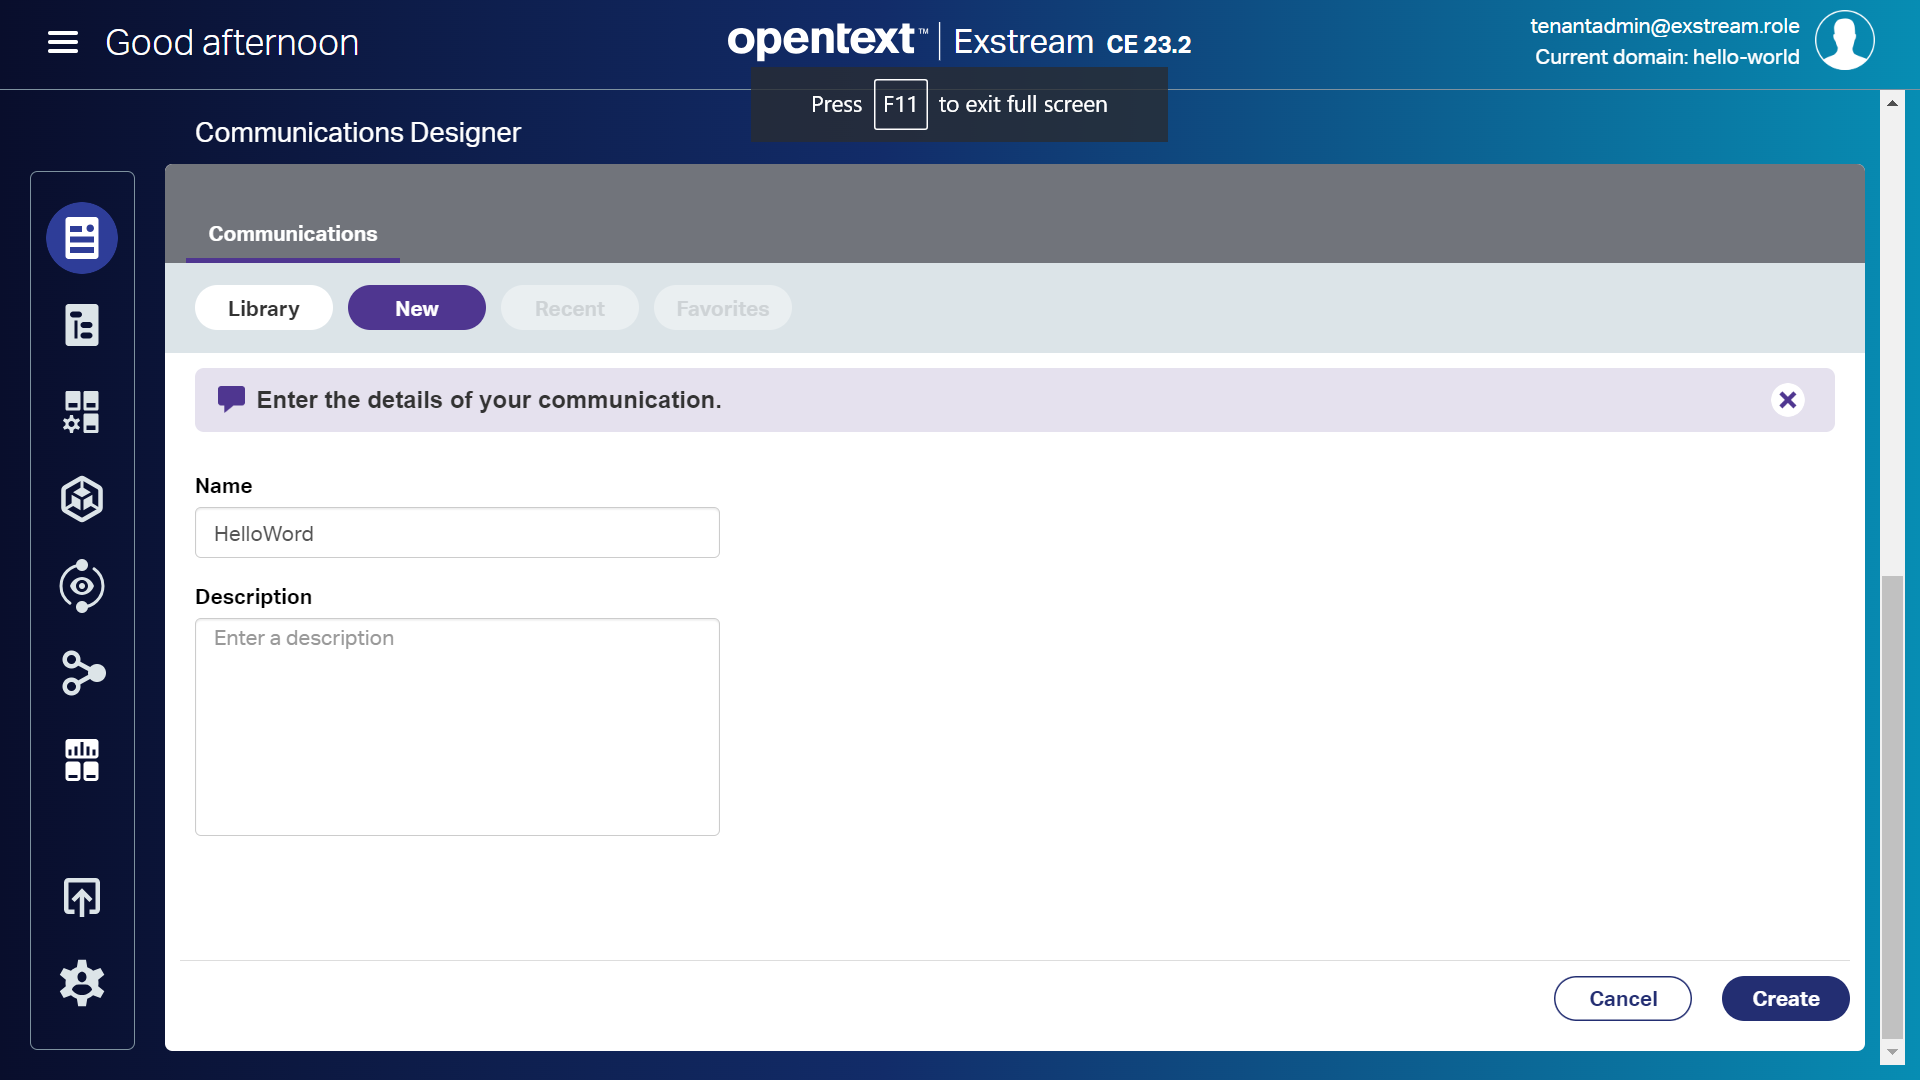
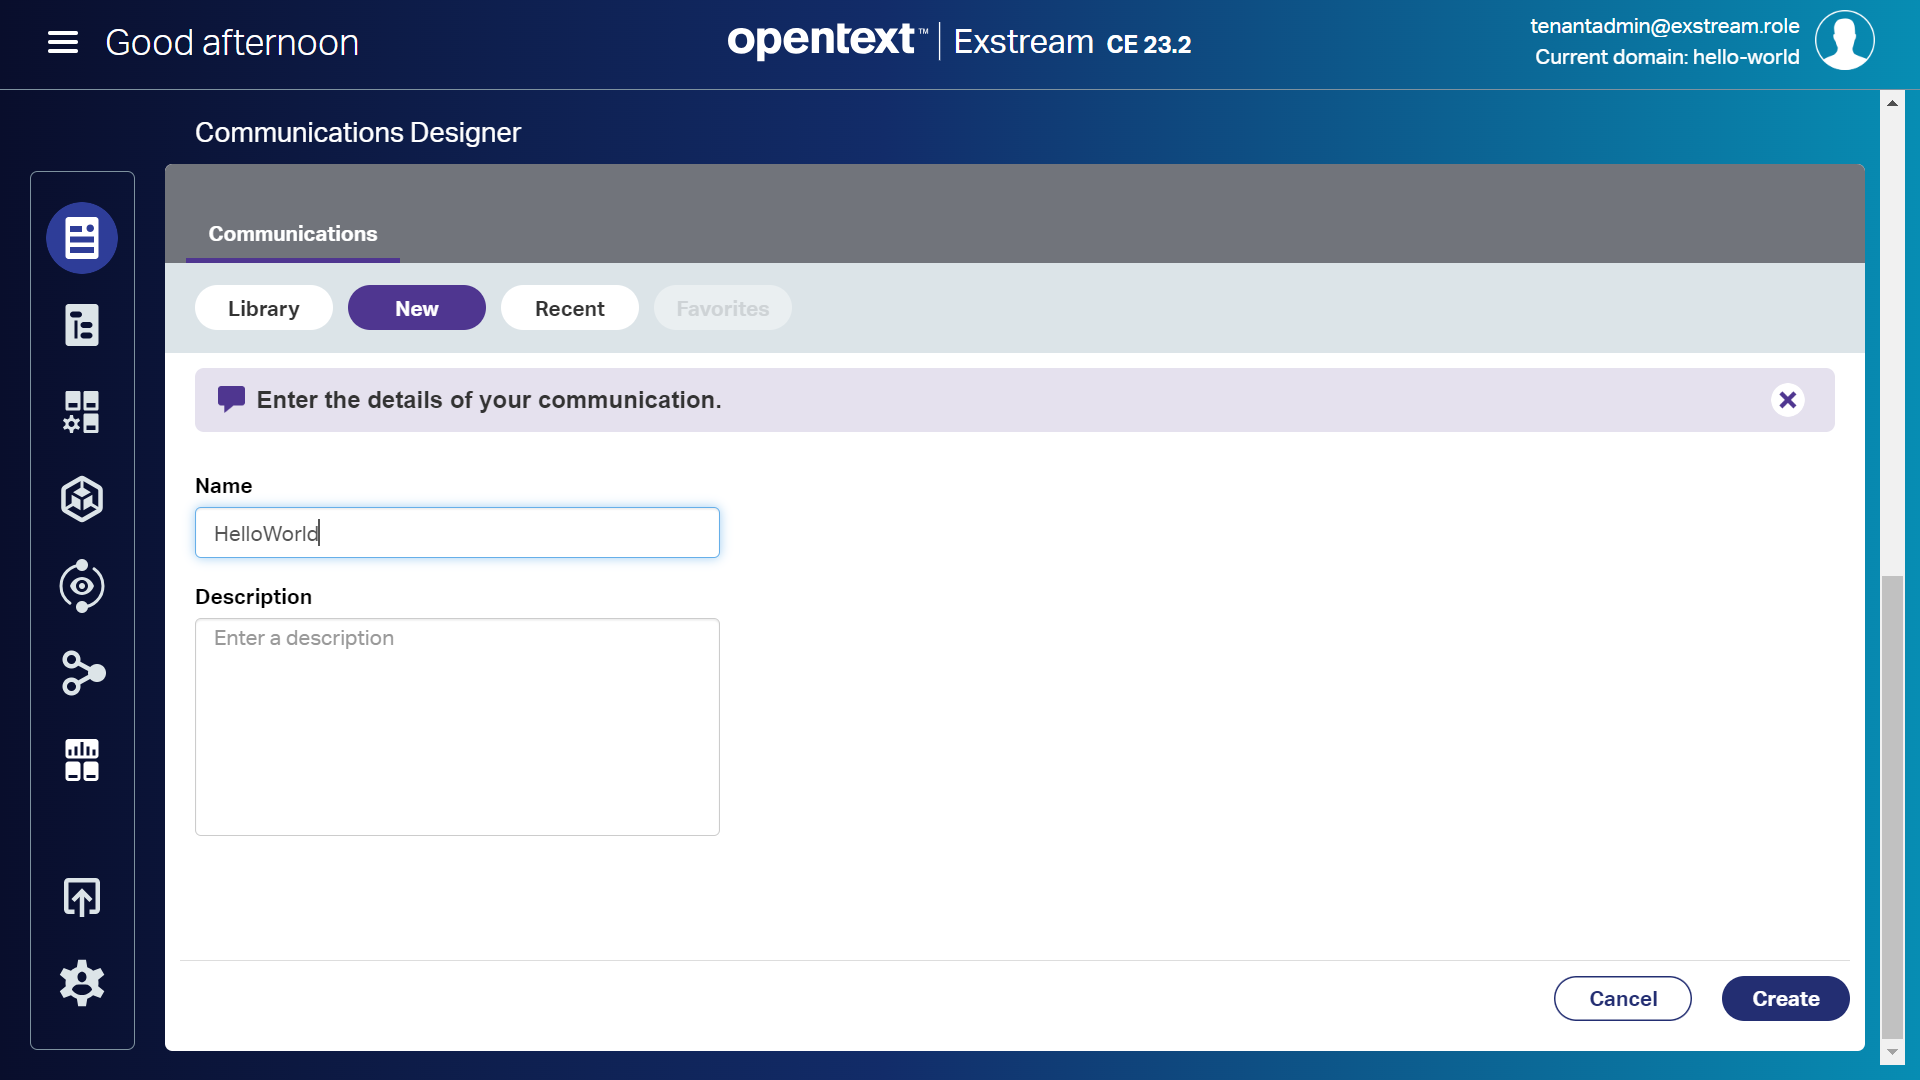
Hello World with Exstream (2nd Part) post updated

Changed region(s): [[0.375, 0.0611, 0.625, 0.1528], [0.0938, 0.4583, 0.375, 0.5194], [0.2812, 0.275, 0.3125, 0.3056]]

diff --git a/_posts/2023-06-28-hello-world-with-exstream-part-2.md b/_posts/2023-06-28-hello-world-with-exstream-part-2.md
@@ -31,6 +31,13 @@ Now that we have all the scaffolding done, let's design a communication. Just fo
 
  ![New Communication. Select communication set](../images/2023-06-28-hello-world-with-exstream/26-exstream-new-communication-create.png)	  	
 
+We must provide the details of our communication:
+
+ - **Name**: HelloWorld
+ - **Description**: My First Exstream communication
+
+Now click on `Create` button
+ 
 
 
  
